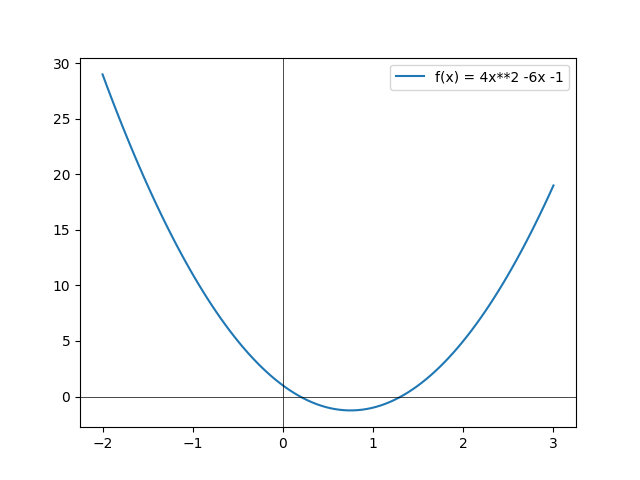
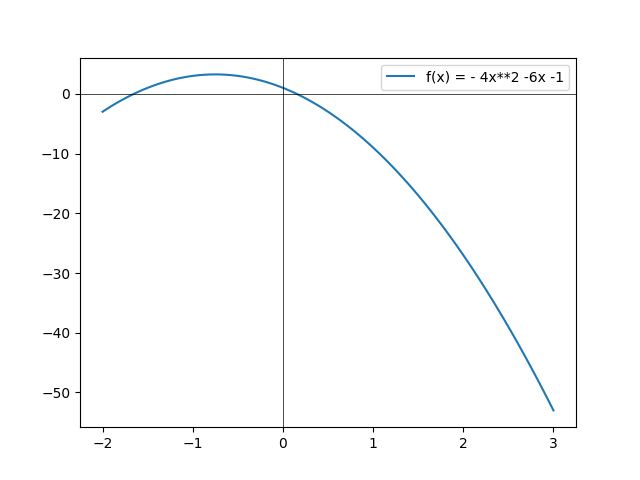
ex corrigido

diff --git a/estudos/aula-01/ex_2.py b/estudos/aula-01/ex_2.py
@@ -2,9 +2,9 @@ import numpy as np
 import matplotlib.pyplot as plt
 
 x = np.linspace(-2, 3, 100)
-y = 4*x**2 - 6*x + 1
+y = - 4*x**2 - 6*x + 1
 
-plt.plot(x, y, label="f(x) = 4x**2 -6x -1")
+plt.plot(x, y, label="f(x) = - 4x**2 -6x -1")
 plt.axhline(0, color='black', linewidth=0.5)
 plt.axvline(0, color='black', linewidth=0.5)
 plt.legend()
